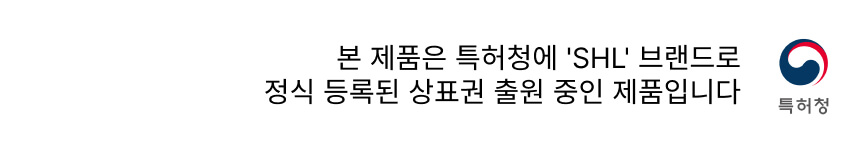
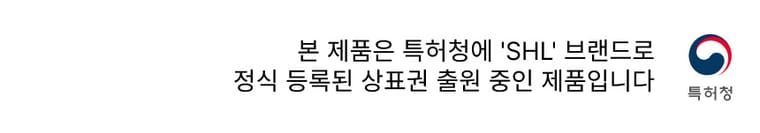
b 페이지 용량 최적화

diff --git a/public/b/index.html b/public/b/index.html
@@ -10,7 +10,8 @@
     <meta name="description" content="1.2mm 카본 강재로 설계한 SHL 버디케인.">
     <link rel="icon" type="image/x-icon" href="images/favicon.ico">
     <link rel="shortcut icon" type="image/x-icon" href="images/favicon.ico">
-    <link rel="stylesheet" crossorigin href="https://cdn.jsdelivr.net/gh/orioncactus/pretendard@v1.3.9/dist/web/variable/pretendardvariable-dynamic-subset.min.css" />
+    <link rel="stylesheet" crossorigin href="https://cdn.jsdelivr.net/gh/orioncactus/pretendard@v1.3.9/dist/web/variable/pretendardvariable-dynamic-subset.min.css" media="print" onload="this.media='all'" />
+    <noscript><link rel="stylesheet" crossorigin href="https://cdn.jsdelivr.net/gh/orioncactus/pretendard@v1.3.9/dist/web/variable/pretendardvariable-dynamic-subset.min.css" /></noscript>
     <link rel="stylesheet" href="index.css">
     <meta name="referrer" content="strict-origin-when-cross-origin">
 </head>
@@ -25,12 +26,6 @@
         <header class="main-header">
             <div class="header-inner">
                 <div class="logo">SHL</div>
-                <a href="https://shl.ltd/login" class="user-icon">
-                    <svg width="24" height="24" viewBox="0 0 24 24" fill="none" stroke="#192a48" stroke-width="1.5" stroke-linecap="round" stroke-linejoin="round">
-                        <path d="M20 21v-2a4 4 0 0 0-4-4H8a4 4 0 0 0-4 4v2"></path>
-                        <circle cx="12" cy="7" r="4"></circle>
-                    </svg>
-                </a>
             </div>
         </header>
         
@@ -66,12 +61,12 @@
                 <details class="cert-dropdown" style="margin-top: 30px; border-top: 1px solid #ddd; padding-top: 15px;">
                     <summary class="text-center" style="font-size: 14px; cursor: pointer; list-style: none; font-weight: 700;">▼ 인증서 직접 조회하기 ▼</summary>
                     <div class="cert-links" style="display: flex; flex-wrap: wrap; justify-content: center; gap: 8px; margin-top: 15px;">
-                        <a href="https://shl.ltd/kcl-test-report" class="pill-btn">KCL인증서</a>
-                        <a href="https://shl.ltd/ce-declaration" class="pill-btn">CE인증서</a>
-                        <a href="https://shl.ltd/fda-registration" class="pill-btn">FDA</a>
-                        <a href="https://shl.ltd/iso-13485" class="pill-btn">ISO</a>
-                        <a href="https://shl.ltd/design-patent" class="pill-btn">디자인권</a>
-                        <a href="https://shl.ltd/trademark" class="pill-btn">상표권</a>
+                        <a href="https://shl.ltd/kcl-test-report" class="pill-btn" target="_blank" rel="noopener">KCL인증서</a>
+                        <a href="https://shl.ltd/ce-declaration" class="pill-btn" target="_blank" rel="noopener">CE인증서</a>
+                        <a href="https://shl.ltd/fda-registration" class="pill-btn" target="_blank" rel="noopener">FDA</a>
+                        <a href="https://shl.ltd/iso-13485" class="pill-btn" target="_blank" rel="noopener">ISO</a>
+                        <a href="https://shl.ltd/design-patent" class="pill-btn" target="_blank" rel="noopener">디자인권</a>
+                        <a href="https://shl.ltd/trademark" class="pill-btn" target="_blank" rel="noopener">상표권</a>
                     </div>
                 </details>
             </div>
@@ -168,7 +163,7 @@
 
         <!-- Media Image -->
         <section class="sec-media-img sec-img-only">
-            <img src="images/media.png" alt="Media" class="full-img" width="860" height="964" loading="lazy" decoding="async">
+            <img src="images/media.webp" alt="Media" class="full-img" width="860" height="964" loading="lazy" decoding="async">
         </section>
 
         <!-- New System 01 Detailed Design (Black Theme) -->